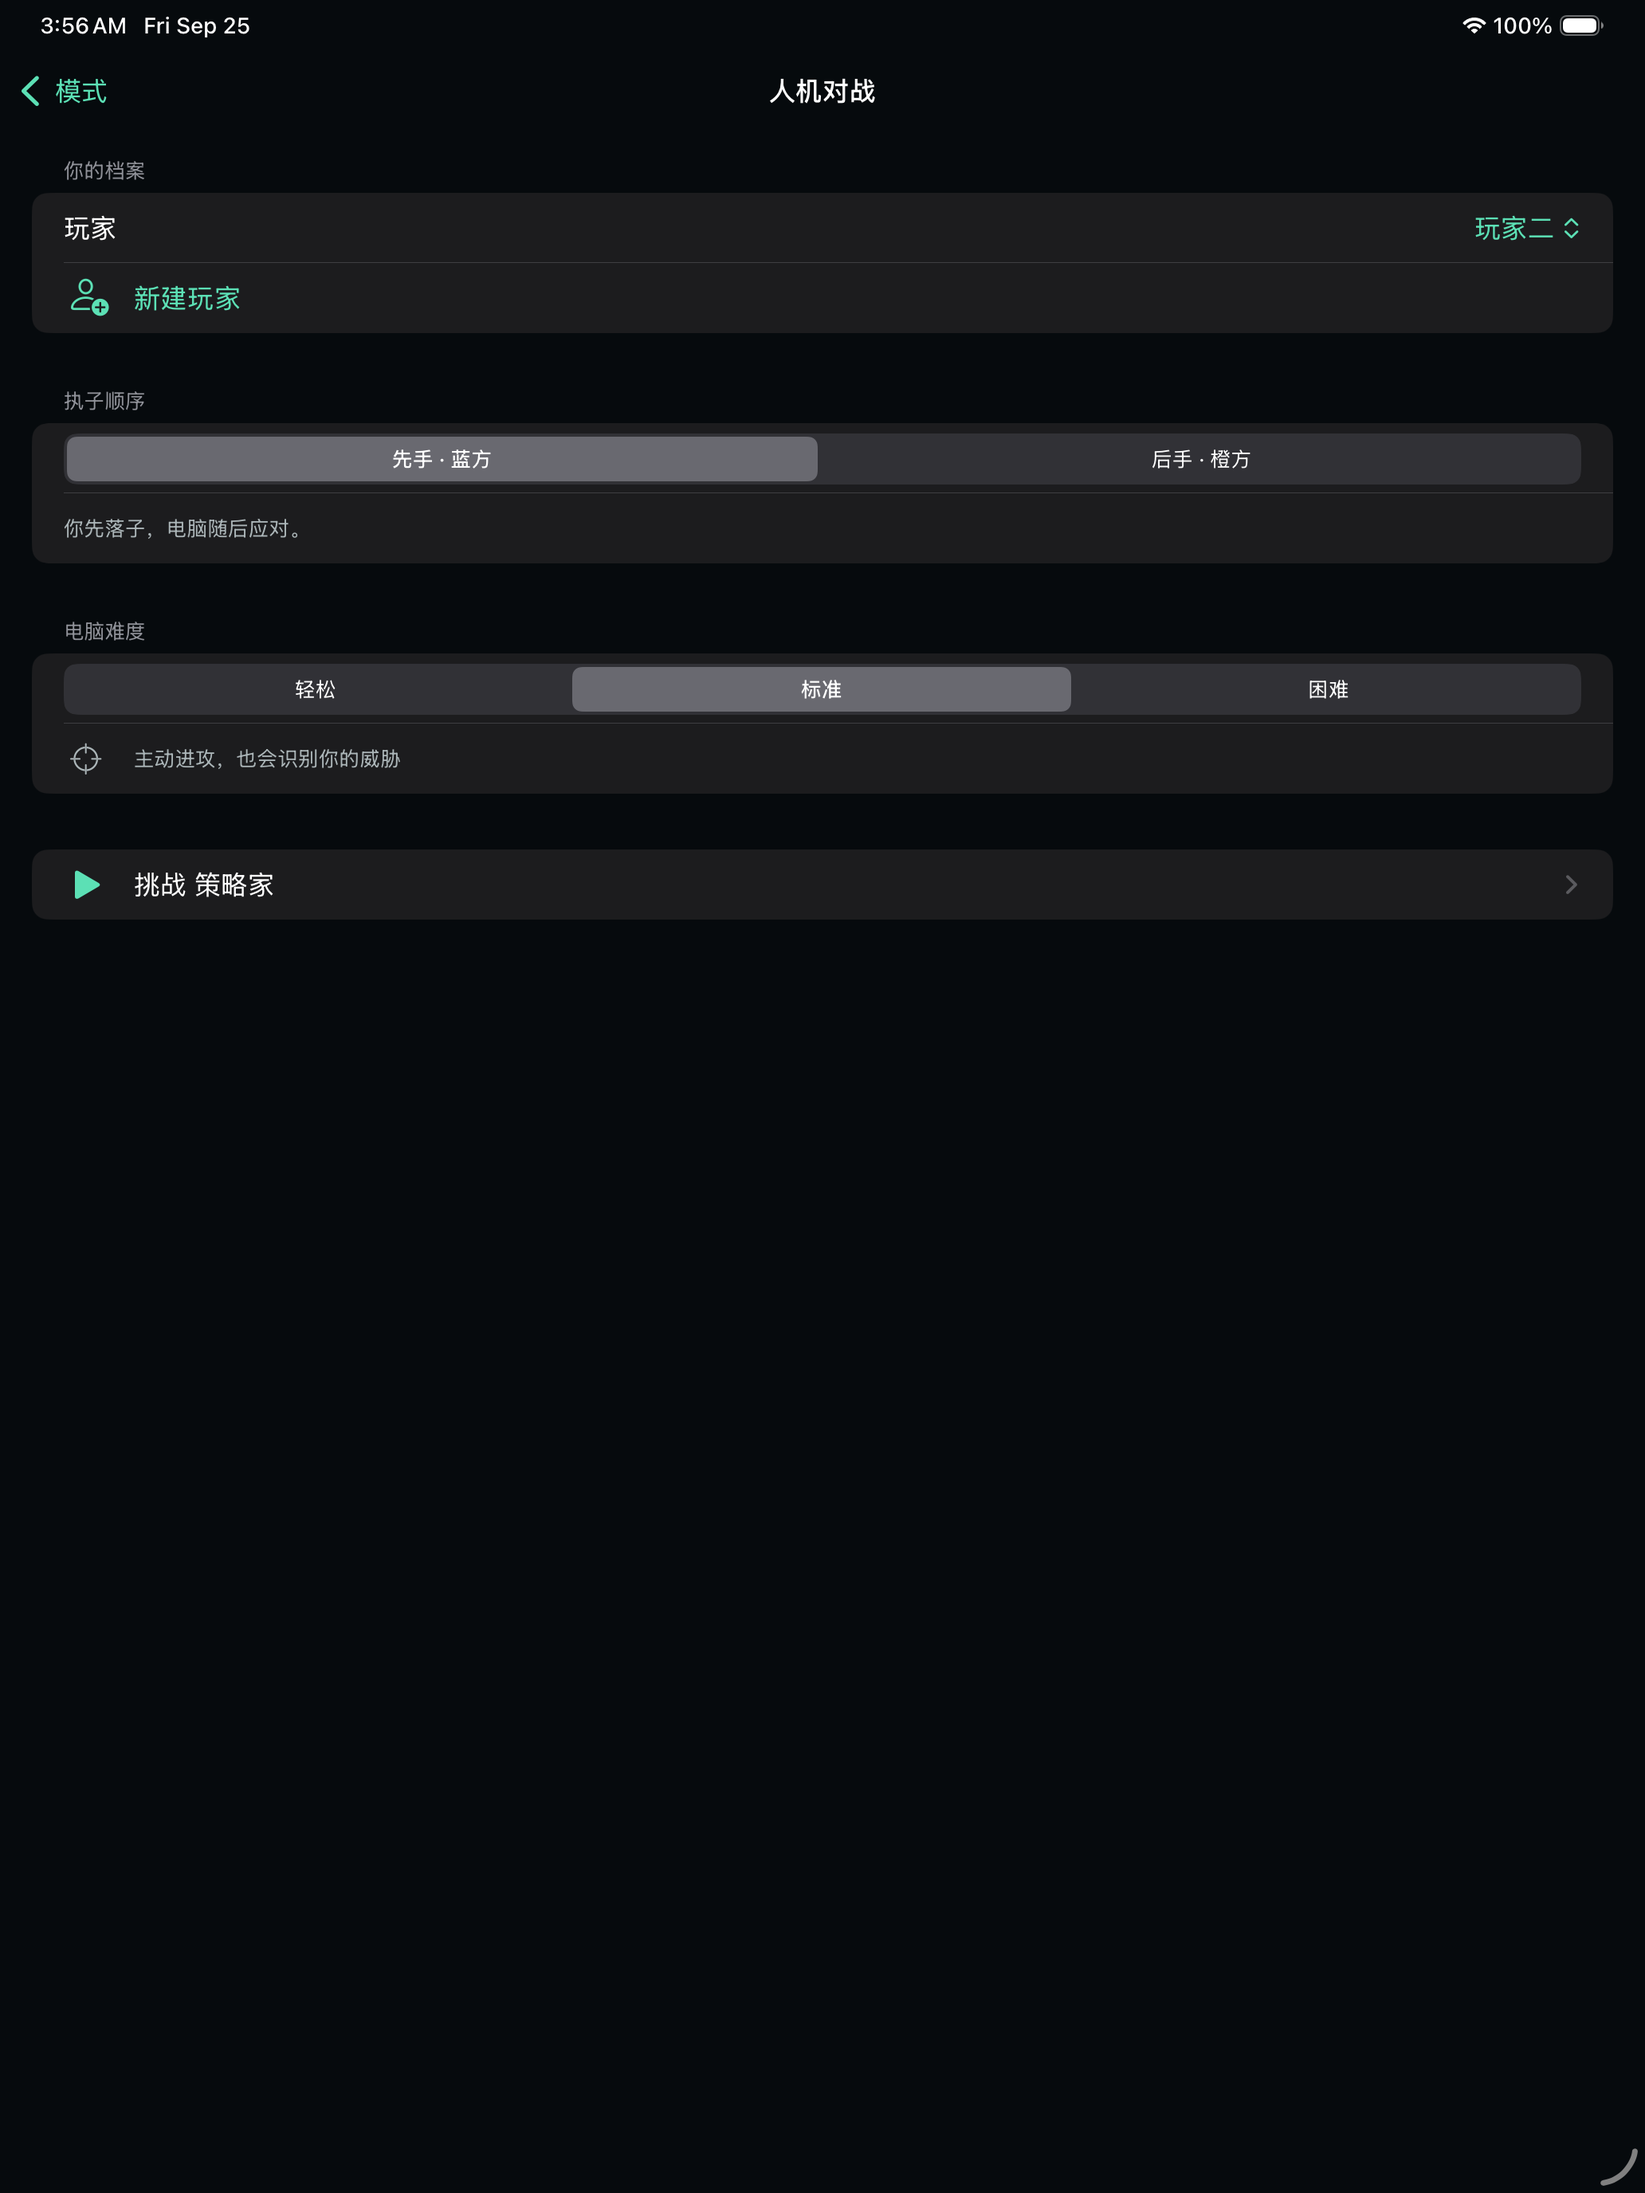
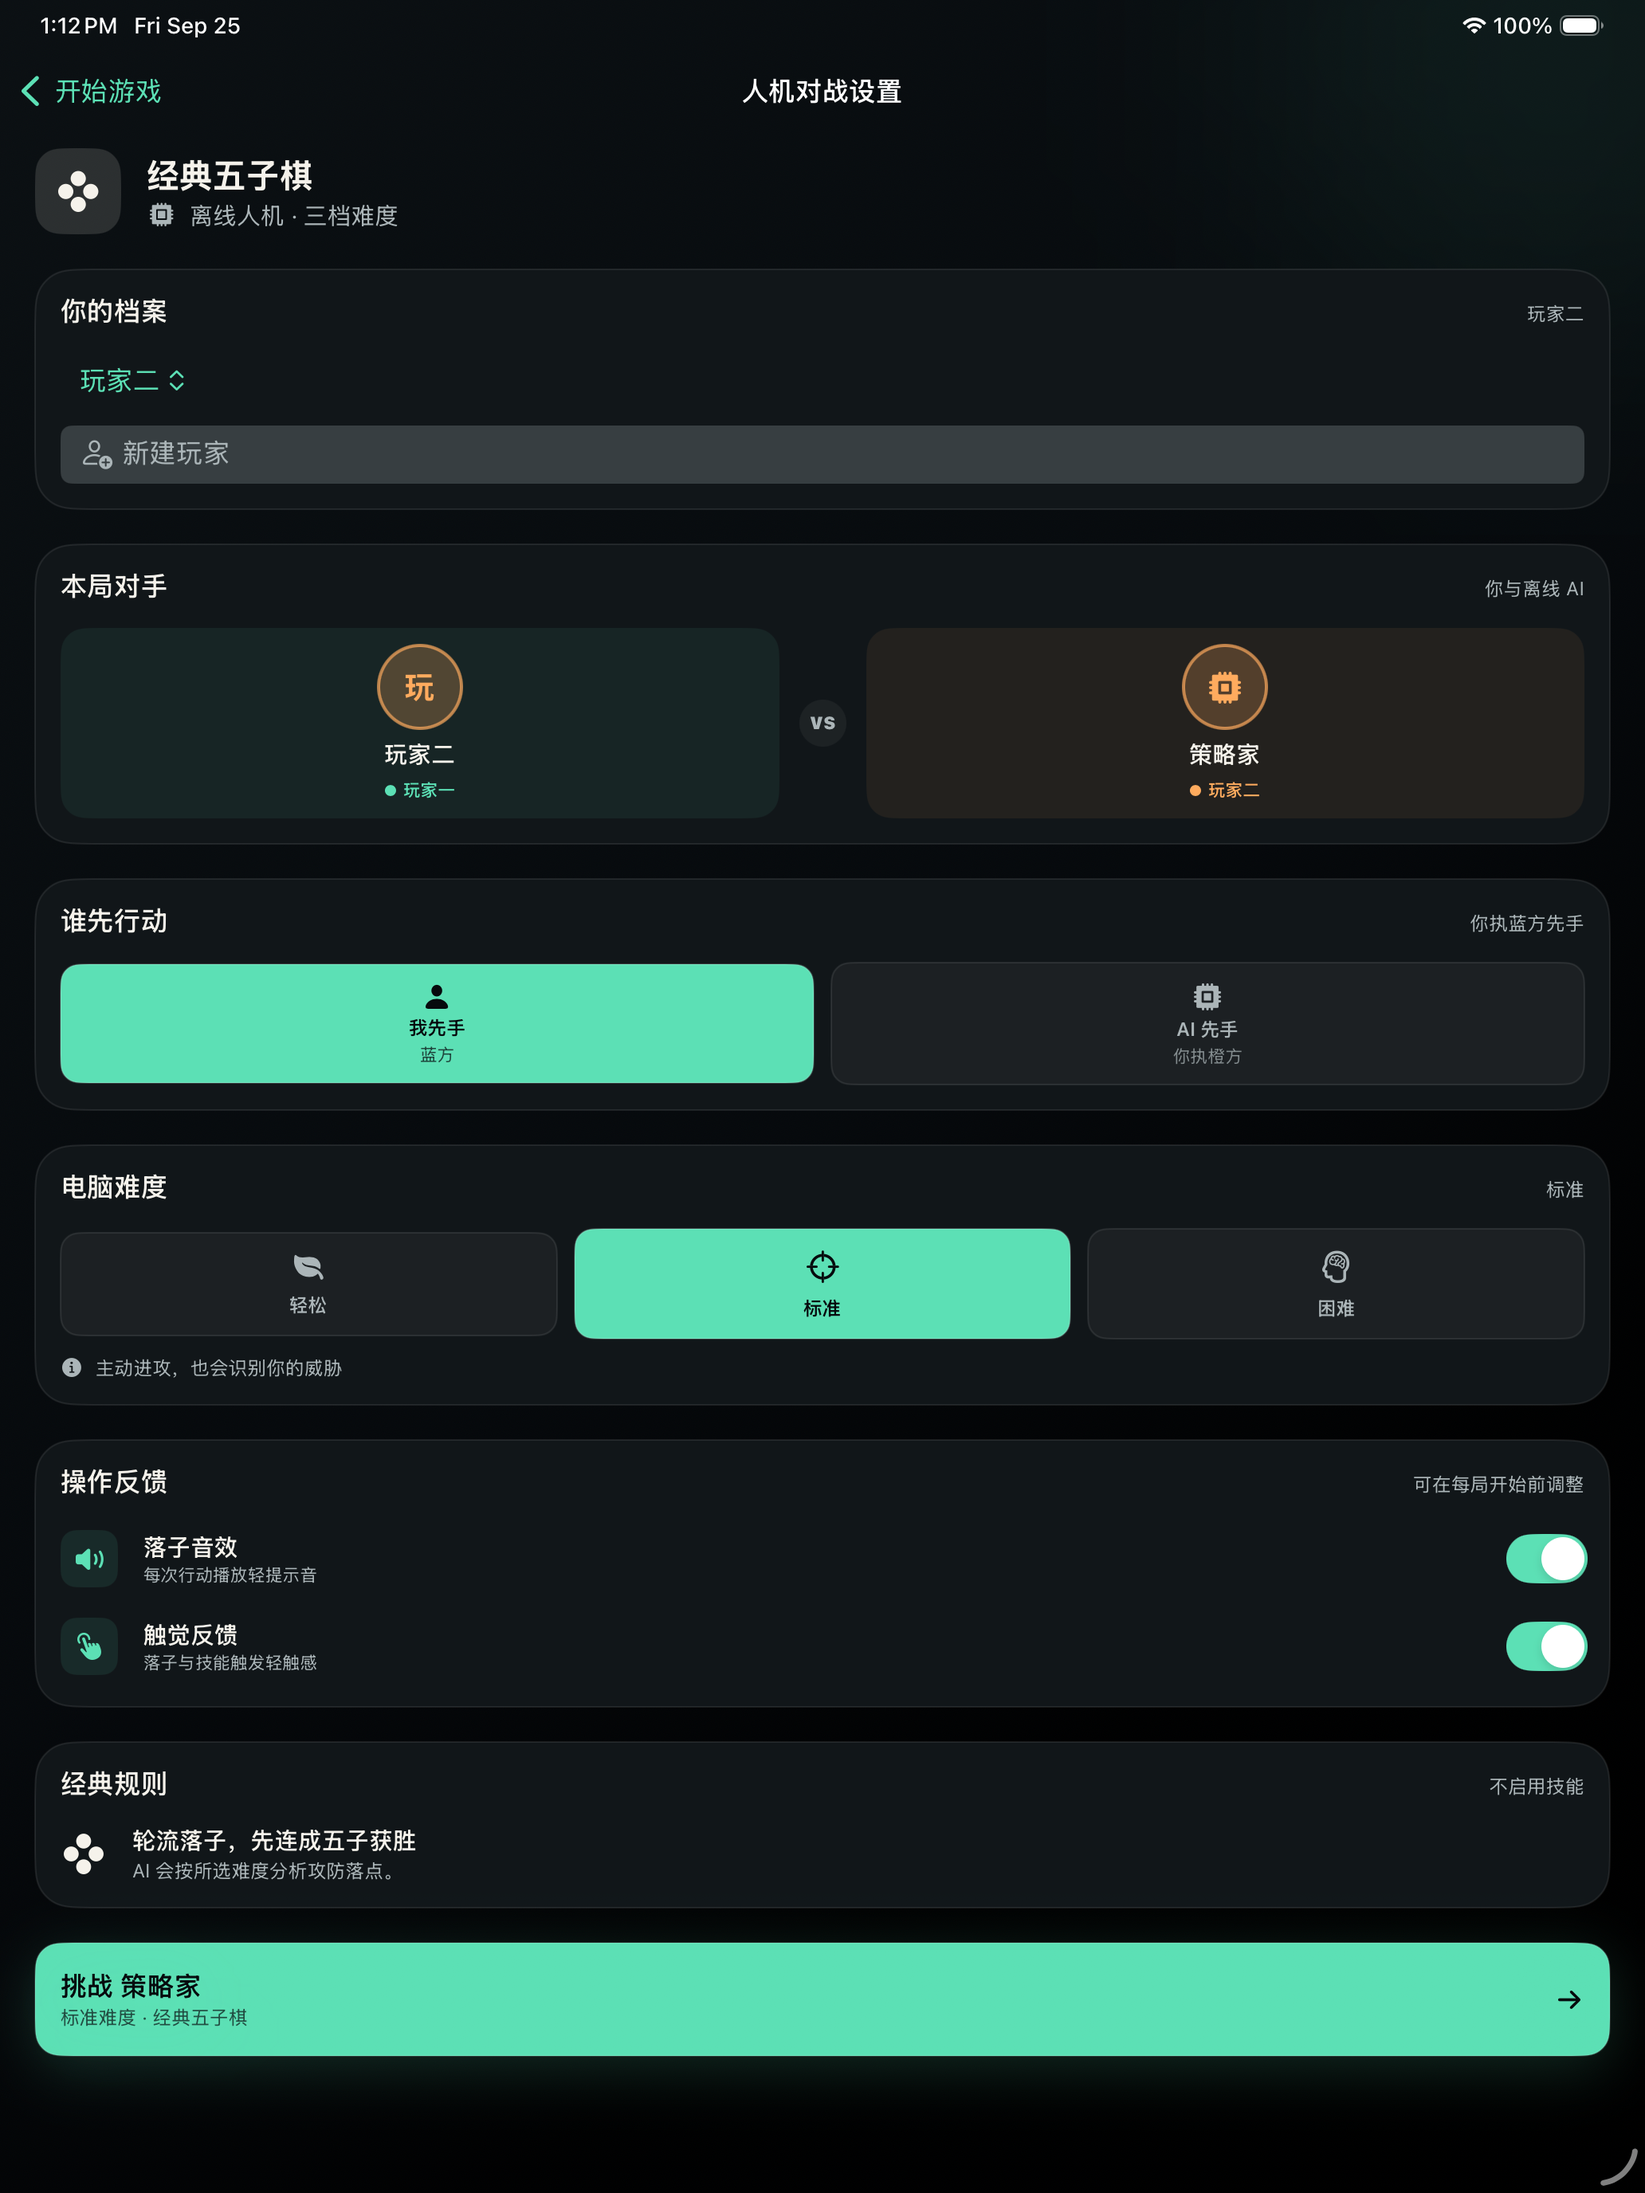
docs: archive 2.0 AI screenshots

diff --git a/AppStoreAssets/README.md b/AppStoreAssets/README.md
@@ -1,6 +1,6 @@
 # App Store Assets
 
-The screenshots in this folder are captured from the shipping app through UI tests. Files `01`–`03` cover the 1.1 classic and skill flows; files `04`–`05` were captured from 2.0 and cover the single-player setup and AI match experience.
+The screenshots in this folder are captured from the shipping app through UI tests. Files `01`–`03` cover the 1.1 classic and skill flows; files `04`–`08` were captured from 2.0 and cover classic AI setup/match, opponent-first mode selection, and skill-enabled AI setup/match.
 
 `Tools/GenerateMarketingAssets.swift` is retained only as a legacy reference and must not be used to replace the 1.1 screenshots or app icon.
 
@@ -15,12 +15,18 @@ The screenshots in this folder are captured from the shipping app through UI tes
 - `iphone-6.9/03-match-setup.png`: 1320 x 2868, portrait, no alpha
 - `iphone-6.9/04-ai-setup.png`: 1320 x 2868, portrait, no alpha
 - `iphone-6.9/05-ai-match.png`: 1320 x 2868, portrait, no alpha
+- `iphone-6.9/06-mode-selection.png`: 1320 x 2868, portrait, no alpha
+- `iphone-6.9/07-ai-skill-setup.png`: 1320 x 2868, portrait, no alpha
+- `iphone-6.9/08-ai-skill-match.png`: 1320 x 2868, portrait, no alpha
 - `ipad-13/01-core-gameplay.png`: 2064 x 2752, portrait, no alpha
 - `ipad-13/02-skill-mode.png`: 2064 x 2752, portrait, no alpha
 - `ipad-13/03-match-setup.png`: 2064 x 2752, portrait, no alpha
 - `ipad-13/04-ai-setup.png`: 2064 x 2752, portrait, no alpha
 - `ipad-13/05-ai-match.png`: 2064 x 2752, portrait, no alpha
+- `ipad-13/06-mode-selection.png`: 2064 x 2752, portrait, no alpha
+- `ipad-13/07-ai-skill-setup.png`: 2064 x 2752, portrait, no alpha
+- `ipad-13/08-ai-skill-match.png`: 2064 x 2752, portrait, no alpha
 
-The screenshot set covers classic gameplay and turn indication, both players' visible skill decks, the redesigned skill-match setup, AI difficulty/turn selection, and the offline AI match interface. They match accepted App Store Connect screenshot dimensions for modern iPhone and 13-inch iPad uploads.
+The screenshot set covers opponent-first category selection, classic and skill-enabled AI setup, classic gameplay and turn indication, both players' visible skill decks, AI difficulty/turn selection, and the offline AI match interface. They match accepted App Store Connect screenshot dimensions for modern iPhone and 13-inch iPad uploads.
 
 Reference: https://developer.apple.com/help/app-store-connect/reference/app-information/screenshot-specifications/

diff --git a/AppStoreSubmission/metadata.zh-Hans.md b/AppStoreSubmission/metadata.zh-Hans.md
@@ -58,7 +58,7 @@
 
 ## 截图映射
 
-截图包含原有双人/技能玩法，以及由 2.0 UI 测试在真实模拟器尺寸上捕获的人机设置页和 AI 对局页。
+截图包含原有双人/技能玩法，以及由 2.0 UI 测试在真实模拟器尺寸上捕获的对战方式分类、经典人机设置/对局和技能人机设置/对局。
 
 - App Icon 预览：`AppStoreAssets/app-icon/app-icon-1024.png`
 - iPhone 6.5 英寸：
@@ -71,12 +71,18 @@
   - `AppStoreAssets/iphone-6.9/03-match-setup.png`
   - `AppStoreAssets/iphone-6.9/04-ai-setup.png`
   - `AppStoreAssets/iphone-6.9/05-ai-match.png`
+  - `AppStoreAssets/iphone-6.9/06-mode-selection.png`
+  - `AppStoreAssets/iphone-6.9/07-ai-skill-setup.png`
+  - `AppStoreAssets/iphone-6.9/08-ai-skill-match.png`
 - iPad 13 英寸：
   - `AppStoreAssets/ipad-13/01-core-gameplay.png`
   - `AppStoreAssets/ipad-13/02-skill-mode.png`
   - `AppStoreAssets/ipad-13/03-match-setup.png`
   - `AppStoreAssets/ipad-13/04-ai-setup.png`
   - `AppStoreAssets/ipad-13/05-ai-match.png`
+  - `AppStoreAssets/ipad-13/06-mode-selection.png`
+  - `AppStoreAssets/ipad-13/07-ai-skill-setup.png`
+  - `AppStoreAssets/ipad-13/08-ai-skill-match.png`
 
 ## App Privacy 建议
 

diff --git a/AppStoreSubmission/README.md b/AppStoreSubmission/README.md
@@ -15,7 +15,7 @@ This folder contains copy-ready App Store Connect material for the iOS 2.0 submi
 - Publish `privacy-policy.zh-Hans.md` and `support.zh-Hans.md` to public HTTPS URLs.
 - Fill App Privacy as "No, we do not collect data from this app" if the shipped app remains offline-only and uses avatars only on device.
 - Upload a signed Release build through Xcode Organizer or `xcodebuild -exportArchive` after team signing is configured.
-- Review and upload the generated 2.0 single-player setup and AI match screenshots from `AppStoreAssets`.
+- Review and upload the generated 2.0 mode-selection, classic AI, and skill-enabled AI screenshots from `AppStoreAssets`.
 
 References:
 
